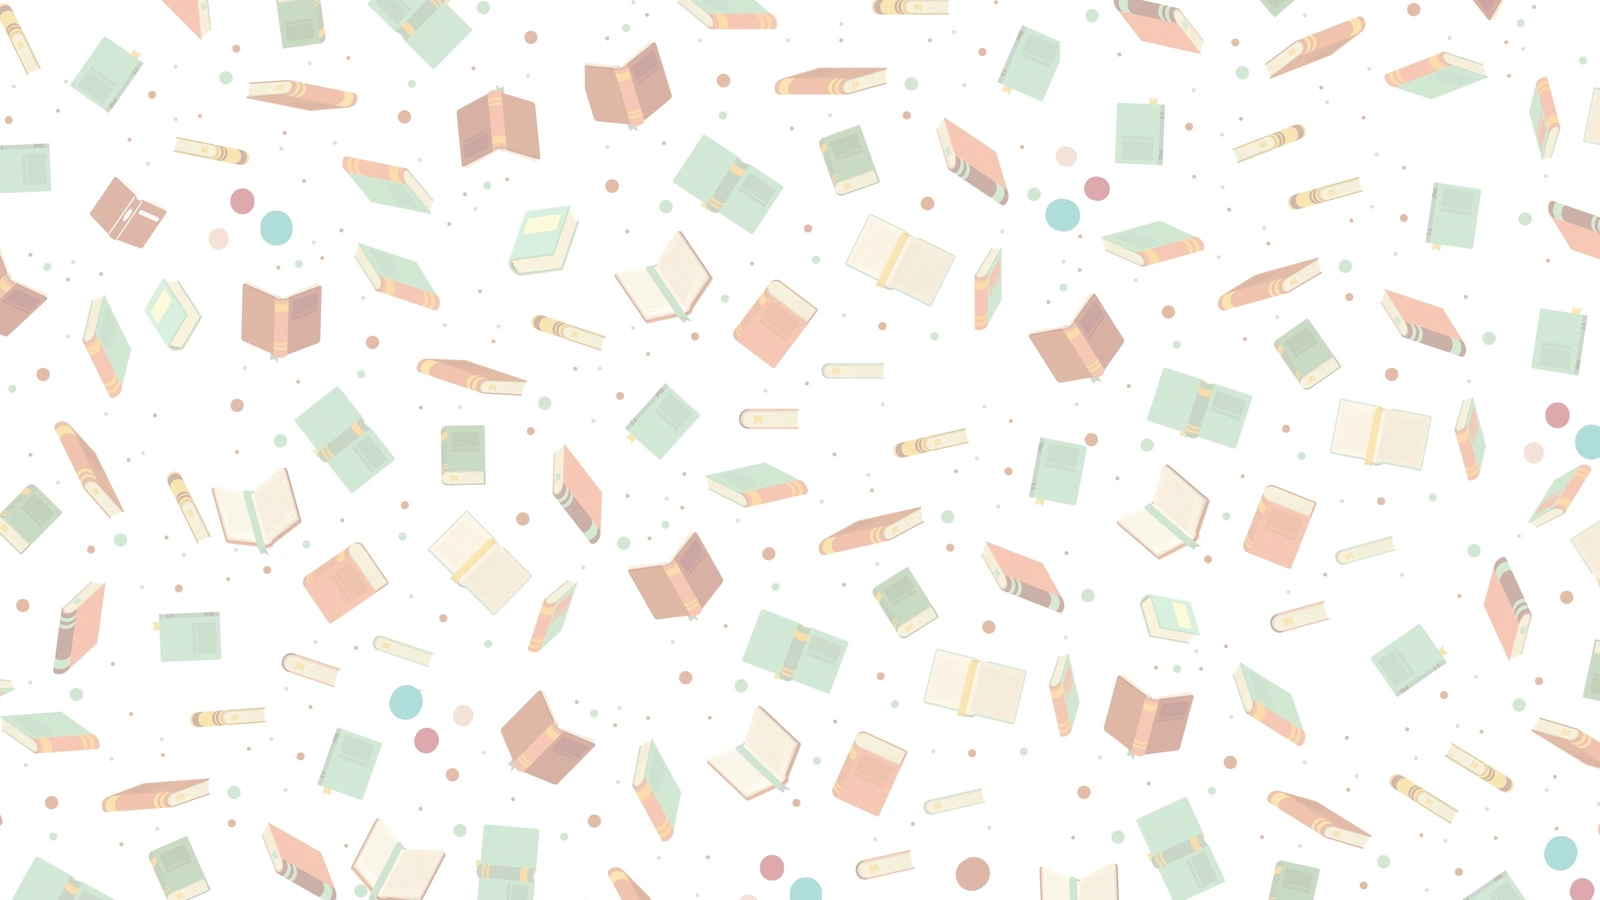
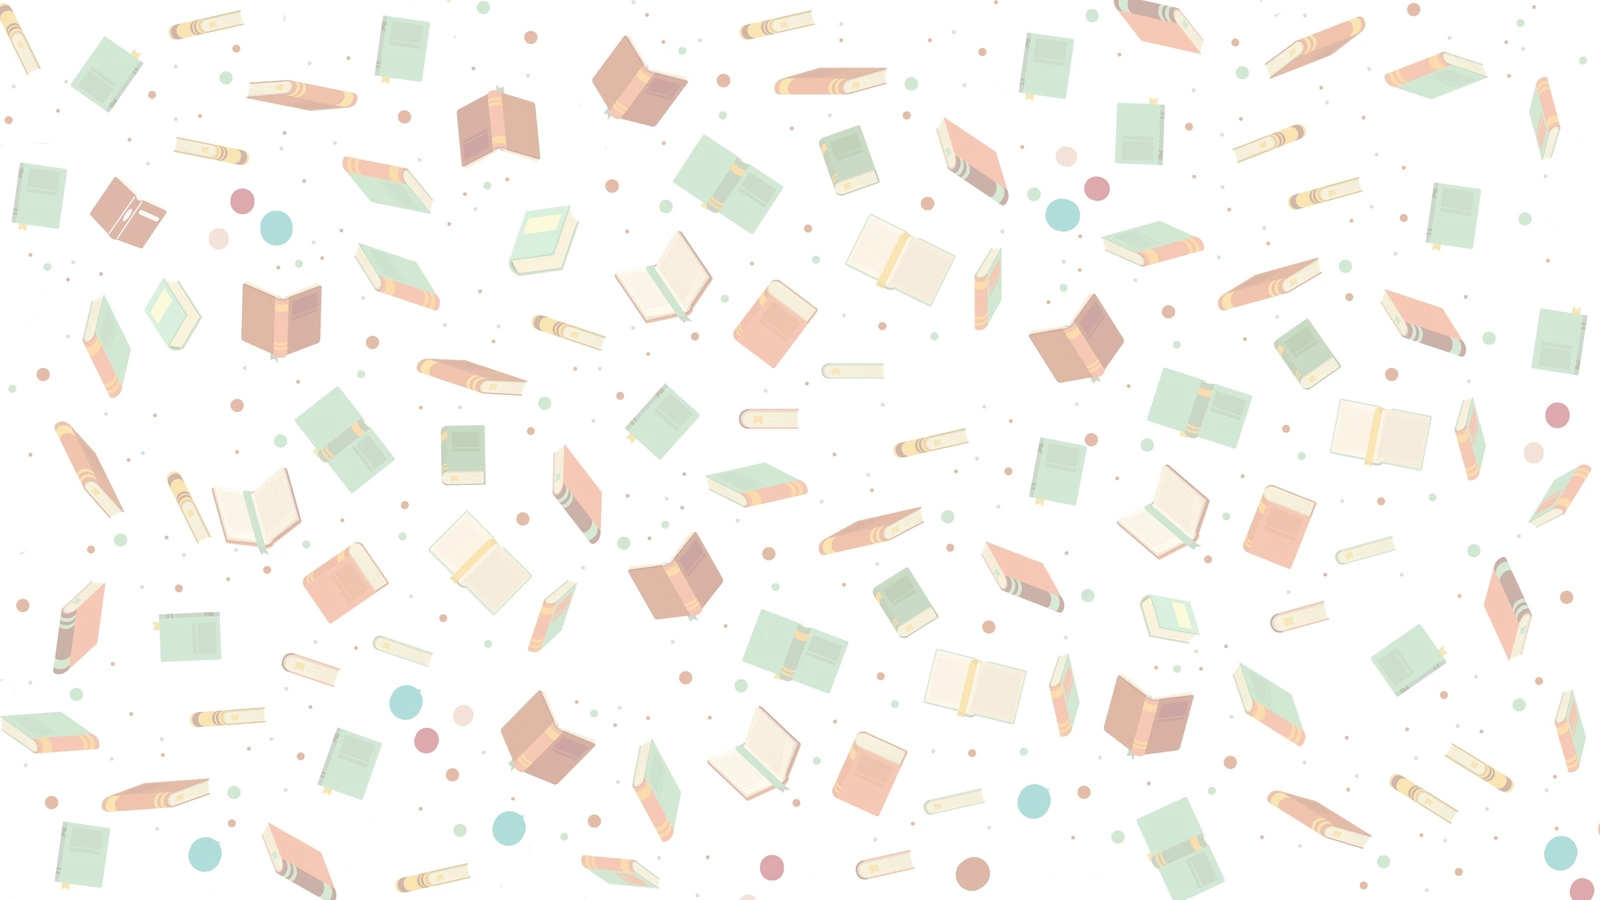
fix css

diff --git a/client/styles/index.css b/client/styles/index.css
@@ -1,19 +1,21 @@
 html,
 body {
-  background-image: url('/images/books.jpg');
-  margin: 0;
+  margin-top: 0;
   padding: 0;
+}
+html {
+  background-image: url('/images/books2.jpg');
 }
 
 .header {
   text-align: center;
   font-size: 30px;
   background-color: rgba(77, 119, 119, 0.6);
-  max-width: 50%; /* Adjust the max-width as per your design */
-  padding: 20px; /* Adjust padding to increase or decrease space around content */
+  max-width: 50%;
+  padding: 20px;
   border-radius: 30px;
-  margin: 50px auto; /* Center horizontally and add vertical margin */
-  box-sizing: border-box; /* Ensures padding is included in the max-width */
+  margin: 50px auto;
+  box-sizing: border-box;
   font-family: 'Segoe UI', Tahoma, Geneva, Verdana, sans-serif;
 }
 .new-book {
@@ -23,7 +25,17 @@ body {
   border-radius: 10px;
 }
 .input-large {
-  height: 40px; /* Adjust height as needed */
+  height: 40px;
+}
+.deleteBtn {
+  width: 200px;
+  color: aliceblue;
+  height: 40px;
+  background-color: darkred;
+  font-size: medium;
+  margin-top: 30px;
+  border-radius: 10px;
+  margin-bottom: 20px;
 }
 .button {
   background-color: rgb(28, 58, 92);

diff --git a/client/components/EditBookForm.tsx b/client/components/EditBookForm.tsx
@@ -42,13 +42,15 @@ function EditBookForm(props: Props) {
 
   function handleDelete() {
     const id = Number(props.id)
-    deleteBooks.mutate(id, {
-      onSuccess: () => {
-        window.location.reload()
-      },
-    })
+    if (window.confirm('Are you sure?')) {
+      deleteBooks.mutate(id, {
+        onSuccess: () => {
+          window.location.reload()
+        },
+      })
 
-    console.log(id)
+      console.log(id)
+    }
   }
 
   return (
@@ -65,8 +67,9 @@ function EditBookForm(props: Props) {
           <option value="0">No</option>
         </select>
       </label>
-      <button type="button" onClick={handleDelete}>
-        Delete
+      <br></br>
+      <button className="deleteBtn" type="button" onClick={handleDelete}>
+        Delete This Book
       </button>
     </form>
   )
